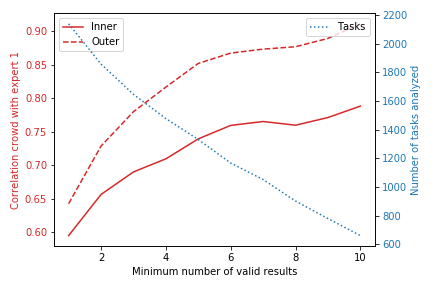
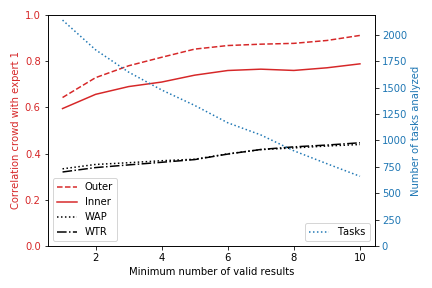
Fixed WAP/WTR bug in plots

diff --git a/combine.py b/combine.py
@@ -55,7 +55,7 @@ def get_task_random(df_task, df_res):
             outer_random = res_random['outer'].to_numpy()[0]
             inner_random = res_random['inner'].to_numpy()[0]
             wap_random = crowdload.compute_wap(inner_random,outer_random) 
-            wtr_random = crowdload.compute_wap(inner_random,outer_random) 
+            wtr_random = crowdload.compute_wtr(inner_random,outer_random) 
         else:
             num_combined = 0
             outer_random = np.nan

diff --git a/analyze.py b/analyze.py
@@ -207,8 +207,8 @@ def scatter_correlation_expert_crowd(df_task_combined, df_truth, combine_type):
     ax3.set_ylabel('Crowd, ' + combine_type)  
     ax3.set_title('WTR, corr={:01.3f}'.format(corr_wtr)) #TODO OMG WHY does this print out an extra line
     max_data = max(ax3.get_xlim()[1], ax3.get_ylim()[1])
-    ax3.set_xlim(-5, max_data)
-    ax3.set_ylim(-5, max_data)
+    ax3.set_xlim(-0.05, max_data)
+    ax3.set_ylim(-0.05, max_data)
     
     sns.despine()
     
